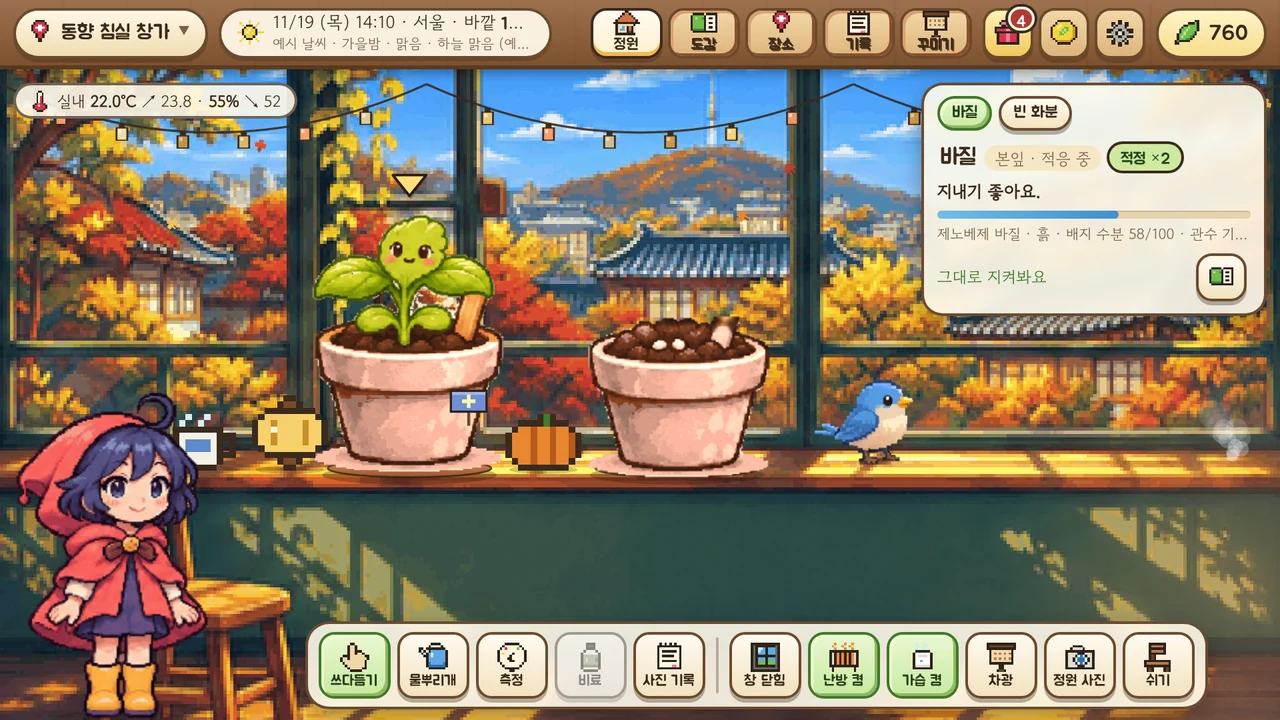
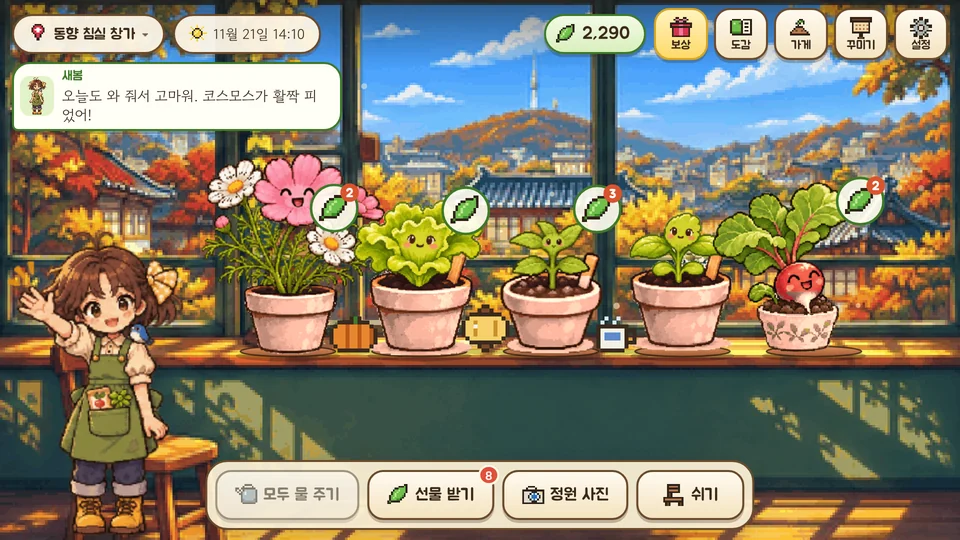
힐링 정원 v4(0.10.0)에 맞춰 소개 글·스크린샷·개인정보처리방침 갱신
- 소개: 하루 1분 창가 정원, 나만의 도감 100종, 출석·미션·편지
- 스크린샷 6장과 대표 그림 교체
- 개인정보처리방침: 날씨 서버 연결 기능·지역 선택 삭제 반영, 저장 항목 갱신

Claude-Session: https://claude.ai/code/session_01Fwm1RHwY45EjpCCGqqCbgZ

diff --git a/privacy.html b/privacy.html
@@ -17,13 +17,13 @@
 <nav><a href="./">게임 소개</a><a href="#ko">한국어</a><a href="#en">English</a></nav>
 <section id="ko" lang="ko">
 <h1>개인정보 처리방침</h1>
-<p class="meta">「푸렁이의 골목정원」 Android 게임 · 개발자: 푸렁이(대현) · 문의: <a href="mailto:pureongi88@gmail.com">pureongi88@gmail.com</a> · 시행일: 2026년 11월 20일</p>
+<p class="meta">「푸렁이의 골목정원」 Android 게임 · 개발자: 푸렁이(대현) · 문의: <a href="mailto:pureongi88@gmail.com">pureongi88@gmail.com</a> · 시행일: 2026년 11월 20일 · 최근 변경: 2026년 11월 20일(날씨 서버 연결 기능 삭제)</p>
 
 <div class="box">
 <h2 style="margin-top:8px;border:0">한눈에 보기</h2>
 <ul>
   <li>회원 가입과 로그인이 없습니다. 개발자는 서버를 운영하지 않으며, 여러분의 게임 정보를 받거나 보관하지 않습니다.</li>
-  <li>식물·장소·꾸미기·일지·편지·잎(게임 재화) 같은 게임 기록과 설정은 <b>이 휴대폰 안에만</b> 저장됩니다.</li>
+  <li>식물·도감·장소·꾸미기·편지·잎(게임 재화) 같은 게임 기록과 설정은 <b>이 휴대폰 안에만</b> 저장됩니다.</li>
   <li>게임에 들어 있는 Google 광고(AdMob)는 광고를 보여 주기 위해 광고 ID 같은 기기 정보를 Google(미국)로 보냅니다. 광고는 원할 때만 누르는 보상형 광고뿐입니다. (제4조~제6조)</li>
   <li>‘정원 사진’은 이용자가 저장·보내기를 누를 때만 휴대폰 갤러리나 이용자가 고른 앱으로 갑니다. (제7조)</li>
   <li>개발자에게 메일을 보내거나 비공개 테스트에 참여하면, 그때 알려 주신 이메일 주소를 받습니다. (제2조)</li>
@@ -47,17 +47,17 @@
 <h2>제3조 (이 휴대폰 안에만 저장되는 정보)</h2>
 <p>① 앱은 게임을 이어서 할 수 있도록 아래 정보를 이 휴대폰의 앱 저장공간에만 저장합니다. 개발자에게 보내지 않습니다.</p>
 <ul>
-  <li>게임 진행: 화분과 식물 상태, 장소, 잎(게임 재화)과 가계부, 꾸미기 소품, 일지·사진 기록, 첫 주 수첩, 이웃 편지, 광고로 연 주인공의 남은 기간</li>
-  <li>설정: 고른 주인공과 부르는 이름, 목록에서 고른 지역 이름(시·도), 음량, 동작 줄이기, 방해 금지 시간</li>
-  <li>광고 보상 횟수와 게임 안 이벤트 횟수(하루 광고 횟수 제한과 첫 주 과제를 위한 기록)</li>
+  <li>게임 진행: 화분과 식물 상태, 씨앗, 나만의 식물 도감, 장소, 잎(게임 재화), 꾸미기 소품, 출석 도장과 오늘의 미션, 이웃 편지, 광고로 연 주인공의 남은 기간</li>
+  <li>설정: 고른 주인공과 부르는 이름, 음량, 동작 줄이기</li>
+  <li>광고 보상 횟수와 게임 안 이벤트 횟수(하루 광고 횟수 제한과 미션을 위한 기록)</li>
   <li>움직이는 배경화면이 그릴 장면 정보(장소 배경, 식물·주인공 그림 이름)</li>
 </ul>
 <p>② 이 정보는 휴대폰 설정에서 앱 데이터를 지우거나 앱을 삭제하면 함께 지워집니다. 개발자에게는 사본이 없으므로 지운 기록은 되살릴 수 없습니다.<br>
 ③ 휴대폰에서 Google 백업을 켜 두셨다면, Android가 이 정보를 이용자 본인의 Google 계정 백업에 포함할 수 있습니다. 이 백업은 Google이 관리하며 개발자는 볼 수 없습니다.<br>
-④ 지역은 목록에서 고른 시·도 이름만 쓰며, GPS 같은 정확한 위치를 읽지 않습니다.</p>
+④ 앱은 위치 정보를 쓰지 않습니다. 창밖의 맑음·비·눈은 게임 안에서 날짜와 계절에 따라 정해지는 연출이며, 바깥 날씨 정보를 받아 오지 않습니다.</p>
 
 <h2>제4조 (광고: Google AdMob)</h2>
-<p>① 앱은 무료이며, Google LLC의 AdMob(Google 모바일 광고 SDK)으로 광고를 보여 줍니다. 광고는 이용자가 원할 때 누르는 <b>보상형 광고</b>(게임 재화·꾸미기 소품·주인공 7일)뿐이며, 전면 광고와 배너 광고는 없습니다.<br>
+<p>① 앱은 무료이며, Google LLC의 AdMob(Google 모바일 광고 SDK)으로 광고를 보여 줍니다. 광고는 이용자가 원할 때 누르는 <b>보상형 광고</b>(보상 2배·씨앗 상자·단비·꾸미기 소품·주인공 7일)뿐이며, 전면 광고와 배너 광고는 없습니다.<br>
 ② 광고를 불러오고 보여 줄 때 Google 모바일 광고 SDK는 아래 정보를 자동으로 수집해 Google로 보냅니다(Google이 공개한 자료 기준).</p>
 <ul>
   <li>기기 식별자: 광고 ID, 앱 세트 ID 등</li>
@@ -70,7 +70,7 @@
 ④ 개발자는 AdMob에서 광고 노출 수와 수익 같은 집계 보고서만 받습니다. 이 보고서로는 개인을 알아볼 수 없습니다.<br>
 ⑤ 테스트 버전에서는 Google의 시험용 광고가 나옵니다. 시험용 광고를 불러올 때도 광고 SDK는 위와 같은 방식으로 Google과 통신합니다.<br>
 ⑥ 법에 따라 동의가 필요한 지역(예: 유럽경제지역, 영국, 스위스)에서는 앱을 시작할 때 Google의 동의 화면이 나오며, 설정 → 광고 → ‘광고 개인정보 설정’에서 언제든 바꿀 수 있습니다.<br>
-⑦ 광고를 보지 않아도 식물 돌보기·회복·장소 열기는 모두 할 수 있습니다. 휴대폰을 인터넷에 연결하지 않으면 광고 요청이 일어나지 않으며, 이때는 광고 보상을 쓸 수 없습니다.</p>
+⑦ 광고를 보지 않아도 씨앗 심기·물 주기·도감 모으기·장소 열기는 모두 할 수 있습니다. 휴대폰을 인터넷에 연결하지 않으면 광고 요청이 일어나지 않으며, 이때는 광고 보상을 쓸 수 없습니다.</p>
 
 <h2>제5조 (맞춤형 광고와 거부 방법)</h2>
 <p>① 맞춤형 광고에 쓰이는 정보(행태정보)</p>
@@ -97,26 +97,23 @@
 ② 이용자가 ‘갤러리에 저장’을 누를 때만 휴대폰의 사진/푸렁이의 골목정원 폴더에 저장되며, ‘보내기’를 누를 때만 이용자가 고른 앱으로 전달됩니다. 앱은 갤러리의 다른 사진을 읽지 않습니다.<br>
 ③ ‘배경화면으로’와 ‘움직이는 배경화면’은 휴대폰 안에서만 설정되며 어디에도 보내지 않습니다. 배경화면 설정을 위해 일반 권한(배경화면 설정)을 씁니다.</p>
 
-<h2>제8조 (날씨 연결 시험 기능)</h2>
-<p>기본값은 앱 안의 예시 날씨이며 이때는 아무것도 보내지 않습니다. 설정의 ‘기상청 관측(날씨 서버 연결)’은 날씨 서버 주소를 직접 넣어 쓰는 시험 기능이며, 이용자가 켜고 주소를 넣은 경우에만 그 서버로 고른 지역 이름(시·도)을 보내 날씨를 받아 옵니다. 개발자는 이 앱용 날씨 서버를 운영하지 않습니다.</p>
-
-<h2>제9조 (Google Play 오류 통계)</h2>
+<h2>제8조 (Google Play 오류 통계)</h2>
 <p>Google Play는 휴대폰에서 사용·진단 정보 공유를 켠 이용자의 기기에서 앱의 비정상 종료와 멈춤 통계를 모아, 개발자에게 개인을 알아볼 수 없는 집계 형태로 보여 줄 수 있습니다. 앱에는 따로 분석 도구나 오류 수집 도구가 들어 있지 않습니다.</p>
 
-<h2>제10조 (아동)</h2>
+<h2>제9조 (아동)</h2>
 <p>앱은 만 14세 미만 아동을 주 대상으로 하지 않으며, 개발자는 아동의 개인정보를 직접 받지 않습니다. 만 14세 미만 아동이 문의 메일을 보낼 때에는 보호자와 함께 보내 주세요. 만 14세 미만 아동의 정보를 받은 사실을 알게 되면 바로 지웁니다.</p>
 
-<h2>제11조 (이용자의 권리와 행사 방법)</h2>
+<h2>제10조 (이용자의 권리와 행사 방법)</h2>
 <p>이용자는 개발자가 받은 자신의 개인정보(제2조)에 대해 열람, 정정, 삭제, 처리 정지를 요청할 수 있습니다. <a href="mailto:pureongi88@gmail.com">pureongi88@gmail.com</a>으로 요청하시면 지체 없이 처리하고 결과를 알려 드립니다. 휴대폰 안의 정보(제3조)는 앱 삭제 또는 앱 데이터 지우기로 이용자가 직접 지울 수 있습니다.</p>
 
-<h2>제12조 (안전성 확보 조치)</h2>
+<h2>제11조 (안전성 확보 조치)</h2>
 <p>개발자는 서버를 운영하지 않아 게임 정보를 따로 보관하지 않습니다. 문의 메일과 테스터 목록은 2단계 인증을 켠 Google 계정에서만 관리하고, 필요한 기간이 지나면 지웁니다.</p>
 
-<h2>제13조 (개인정보 보호책임자)</h2>
+<h2>제12조 (개인정보 보호책임자)</h2>
 <p>개인정보 보호책임자: 푸렁이(대현) · 연락처: <a href="mailto:pureongi88@gmail.com">pureongi88@gmail.com</a><br>
 개인정보 침해에 대한 상담이 필요하시면 개인정보침해신고센터(국번 없이 118, privacy.kisa.or.kr), 개인정보 분쟁조정위원회(1833-6972, www.kopico.go.kr)에 문의하실 수 있습니다.</p>
 
-<h2>제14조 (방침의 변경)</h2>
+<h2>제13조 (방침의 변경)</h2>
 <p>이 방침이 바뀌면 시행 7일 전부터 이 페이지에 알립니다. 이용자 권리에 중요한 변경이 있으면 30일 전에 알립니다. 사진이나 게임 기록을 기기 밖으로 보내는 기능이 생기면, 시행 전에 이 방침을 고치고 필요한 동의를 받습니다.</p>
 </section>
 

diff --git a/index.html b/index.html
@@ -4,9 +4,9 @@
 <meta charset="utf-8">
 <meta name="viewport" content="width=device-width, initial-scale=1">
 <title>푸렁이의 골목정원</title>
-<meta name="description" content="창가에서 실제 시간으로 자라는 식물을 돌보는 작은 도트 정원 게임. 물 주고, 쓰다듬고, 꾸며요.">
+<meta name="description" content="씨앗 심고, 물 주고, 쓰다듬는 하루 1분 창가 정원. 다 키운 식물은 나만의 도감에 차곡차곡.">
 <meta property="og:title" content="푸렁이의 골목정원">
-<meta property="og:description" content="창가에서 실제 시간으로 자라는 식물을 돌보는 작은 도트 정원 게임">
+<meta property="og:description" content="하루 1분, 나만의 창가 도트 정원">
 <meta property="og:image" content="img/feature.webp">
 <link rel="icon" href="favicon.png">
 <style>
@@ -44,26 +44,26 @@
 <body>
 <header><div class="bar"><img src="img/icon.png" alt=""><b>푸렁이의 골목정원</b><nav><a href="#features">소개</a><a href="#ads">광고 안내</a><a href="privacy.html">개인정보처리방침</a></nav></div></header>
 
-<section class="hero"><img src="img/feature.webp" alt="푸렁이의 골목정원 대표 그림: 창가 정원과 주인공, 잎상추 화분, 파랑새 푸렁이"></section>
+<section class="hero"><img src="img/feature.webp" alt="푸렁이의 골목정원 대표 그림: 창가 정원과 주인공, 래디시·잎상추 화분, 파랑새 푸렁이"></section>
 <section class="lead">
-  <h1>창가에서 키우는 작은 정원 생활</h1>
-  <p>파랑새 푸렁이와 함께 씨앗을 심고, 물을 주고, 잎을 살짝 쓰다듬어 보세요. 식물은 실제 시간에 맞춰 천천히 자라요.</p>
+  <h1>하루 1분, 나만의 창가 정원</h1>
+  <p>파랑새 푸렁이와 함께 씨앗을 심고, 물을 주고, 잎을 살살 쓰다듬어 보세요. 다 키운 식물은 나만의 도감에 예쁜 카드로 남아요.</p>
   <span class="badge">Android · 비공개 테스트 중</span>
 </section>
 
 <main>
   <h2 id="features">이런 게임이에요</h2>
   <div class="grid">
-    <div class="card"><img src="img/01_garden_day.webp" alt="가을 낮의 창가 정원" loading="lazy"><div><b>실제 시간으로 자라는 식물</b><p>흙이 마르면 물을, 추우면 창문을 닫고 난방을. 오래 비워 둬도 식물이 영영 시들지는 않아요.</p></div></div>
-    <div class="card"><img src="img/02_garden_night.webp" alt="밤의 창가 정원" loading="lazy"><div><b>낮과 밤, 비와 눈</b><p>창밖은 시간 따라 낮·노을·밤으로 바뀌고, 날씨도 달라져요.</p></div></div>
-    <div class="card"><img src="img/03_plant_care.webp" alt="식물 상태와 돌보기 화면" loading="lazy"><div><b>꼼꼼한 돌보기</b><p>온도·습도·빛·흙 수분을 보고 무엇이 필요한지 알려 줘요.</p></div></div>
-    <div class="card"><img src="img/04_places.webp" alt="키울 장소 고르기" loading="lazy"><div><b>장소마다 다른 정원</b><p>침실 창가, 허브 선반, 처마 아래, 옥상 난간… 빛과 바람이 달라요.</p></div></div>
-    <div class="card"><img src="img/05_dex.webp" alt="식물 도감" loading="lazy"><div><b>식물 도감 100종</b><p>기르는 법을 모두 무료로 읽을 수 있어요. 지금은 12종을 키울 수 있어요.</p></div></div>
-    <div class="card"><img src="img/06_journal.webp" alt="첫 주 수첩과 편지함" loading="lazy"><div><b>첫 주 수첩과 이웃 편지</b><p>날마다 작은 정원 일을 하고, 빵집 이웃의 편지를 받아요. 정원 사진은 배경화면으로도.</p></div></div>
+    <div class="card"><img src="img/01_garden_day.webp" alt="낮의 창가 정원" loading="lazy"><div><b>심고, 물 주고, 쓰다듬고</b><p>빈 화분에 씨앗을 고르고 물만 주면 알아서 자라요. 첫 씨앗은 몇 분 만에! 식물이 죽는 일은 없어요.</p></div></div>
+    <div class="card"><img src="img/02_complete.webp" alt="식물이 다 자란 축하 화면" loading="lazy"><div><b>다 자라면 축하해요</b><p>빠른 식물은 반나절, 꽃과 나무는 일주일쯤. 다 키우면 잎과 새 씨앗을 받아요.</p></div></div>
+    <div class="card"><img src="img/03_dex.webp" alt="나만의 식물 도감" loading="lazy"><div><b>나만의 식물 도감 100종</b><p>채소·허브·꽃·관엽·다육·열매와 나무. 그림자 카드를 하나씩 채워 가는 모으는 재미.</p></div></div>
+    <div class="card"><img src="img/04_seed_pick.webp" alt="씨앗 고르기" loading="lazy"><div><b>오늘은 뭘 심을까</b><p>씨앗 가게와 씨앗 상자에서 새 식물을 만나고, 이름도 지어 줘요.</p></div></div>
+    <div class="card"><img src="img/05_rewards.webp" alt="오늘의 보상: 출석 도장과 미션" loading="lazy"><div><b>매일 작은 즐거움</b><p>출석 도장, 오늘의 미션, 빵집 이웃의 편지, 명절 인사가 기다려요.</p></div></div>
+    <div class="card"><img src="img/06_night_rest.webp" alt="밤의 창가 정원" loading="lazy"><div><b>쉬어 가는 밤 정원</b><p>‘쉬기’를 누르면 정원만 가만히. 정원 사진과 움직이는 배경화면으로도 볼 수 있어요.</p></div></div>
   </div>
 
   <h2 id="ads">광고 안내</h2>
-  <p class="note">광고는 보고 싶을 때만 누르는 보상형 광고뿐이에요(잎·꾸미기 소품·주인공 7일). 갑자기 뜨는 광고나 배너는 없고, 광고를 보지 않아도 돌봄·회복·장소 열기는 모두 할 수 있어요. 광고로 식물이 빨리 자라지는 않아요. 게임 기록은 기기 안에만 저장돼요. 자세한 내용은 <a href="privacy.html">개인정보처리방침</a>을 봐 주세요.</p>
+  <p class="note">광고는 보고 싶을 때만 누르는 보상형 광고뿐이에요(보상 2배·씨앗 상자·단비·꾸미기 소품·새 친구 7일). 갑자기 뜨는 광고나 배너는 없고, 광고를 보지 않아도 심기·물 주기·도감 모으기·장소 열기를 모두 할 수 있어요.</p>
 
   <h2>만든 사람</h2>
   <div class="maker"><img src="img/signature.png" alt="푸렁이(대현)의 시그니처 캐릭터" onerror="this.remove()"><div><b>푸렁이(대현)</b><p style="margin:4px 0 0;color:var(--sub)">기획 · 제작</p></div></div>
